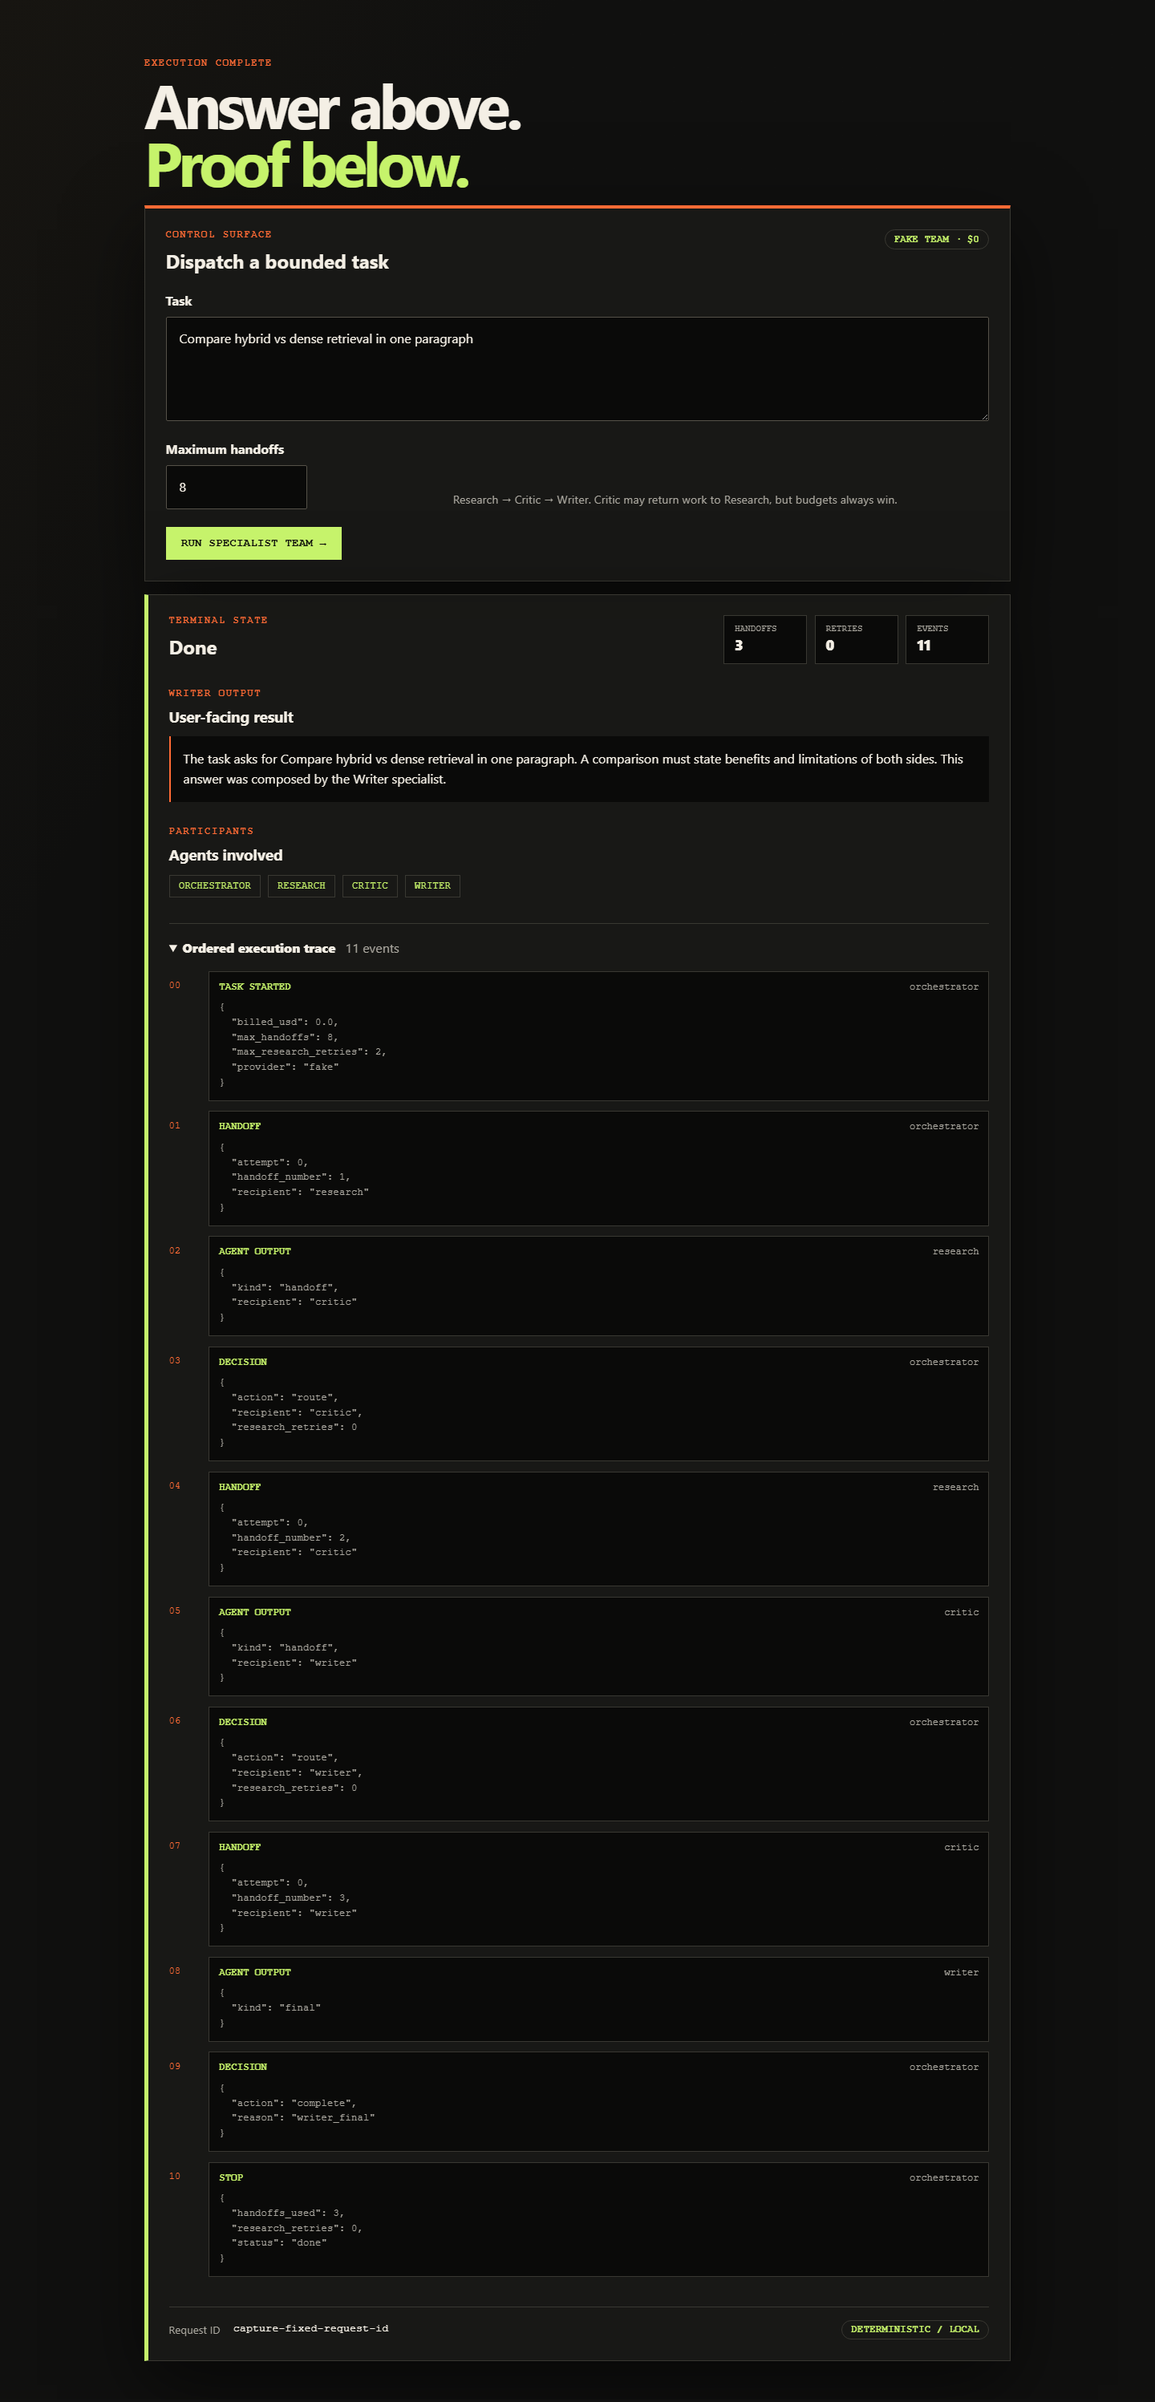
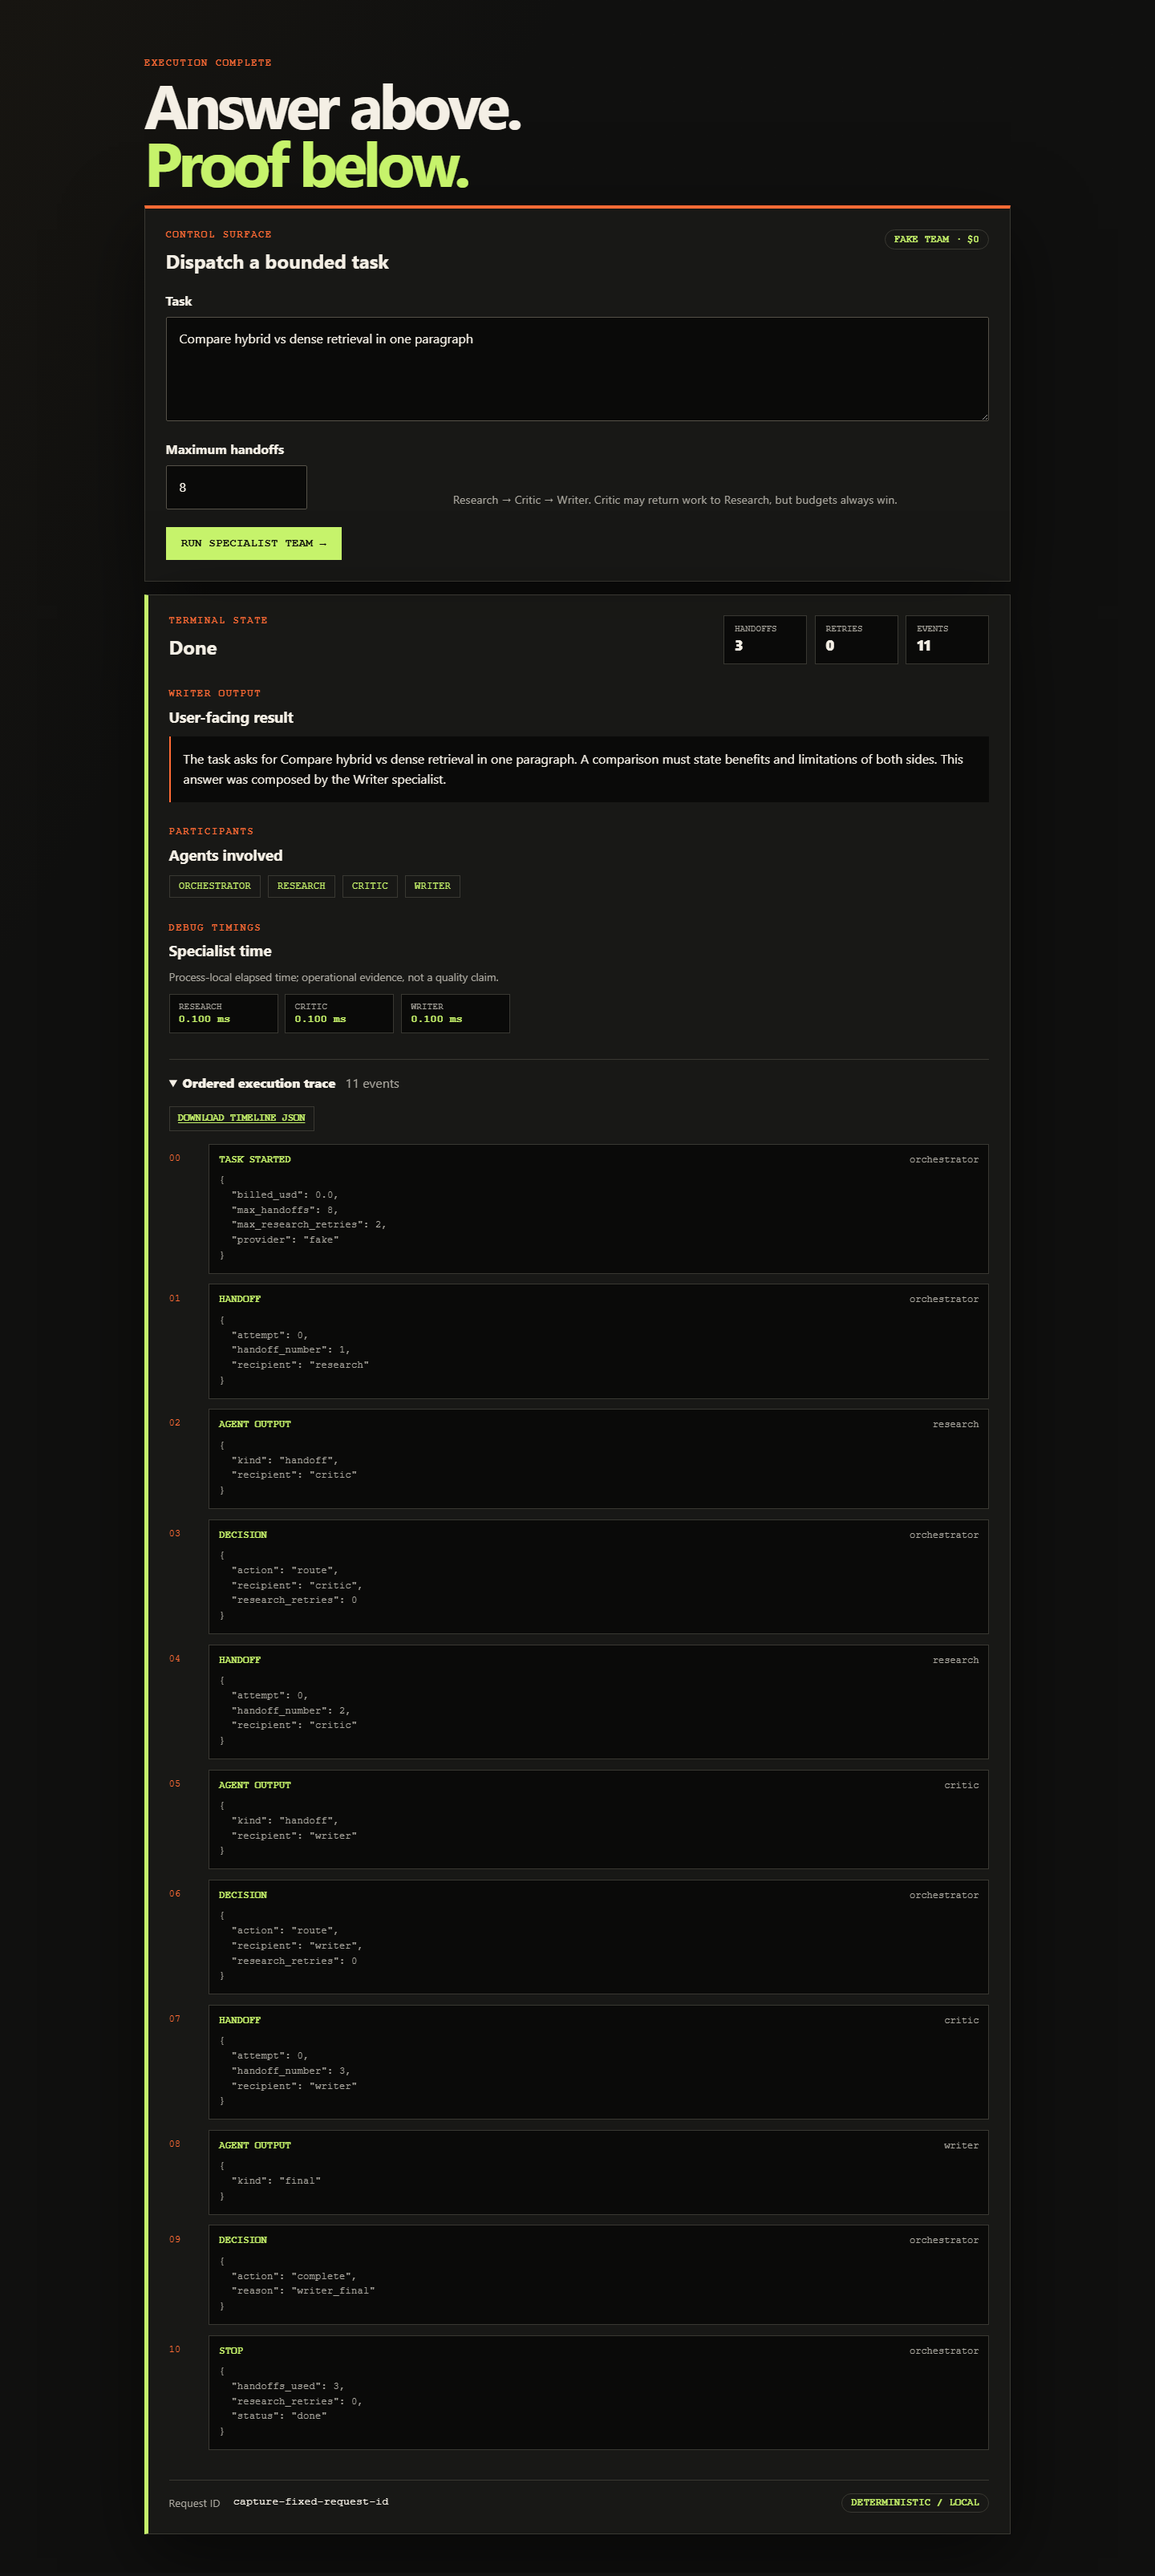
feat(ui): download timeline and show specialist timings

diff --git a/src/mao/static/app.css b/src/mao/static/app.css
@@ -41,9 +41,15 @@ button:hover { background: #ddff98; transform: translateY(-1px); }
 .writer-result { margin: .65rem 0 0; padding: 1rem; border-left: 2px solid var(--orange); background: var(--deep); white-space: pre-wrap; }
 .agent-list { display: flex; flex-wrap: wrap; gap: .55rem; margin: .7rem 0 0; padding: 0; list-style: none; }
 .agent-list li { padding: .38rem .7rem; border: 1px solid var(--line); color: var(--lime); font: .78rem ui-monospace, monospace; text-transform: uppercase; }
+.timing-note { margin: .45rem 0 .7rem; color: var(--muted); font-size: .85rem; }
+.timing-list { display: flex; flex-wrap: wrap; gap: .55rem; margin: 0; }
+.timing-list div { min-width: 8.5rem; padding: .55rem .7rem; border: 1px solid var(--line); background: var(--deep); }
+.timing-list dt { color: var(--muted); font: .7rem ui-monospace, monospace; text-transform: uppercase; }
+.timing-list dd { margin: .15rem 0 0; color: var(--lime); font: 800 .84rem ui-monospace, monospace; }
 .trace { margin-top: 2rem; padding-top: 1.1rem; border-top: 1px solid var(--line); }
 .trace summary { cursor: pointer; font-weight: 800; }
 .trace summary span { margin-left: .5rem; color: var(--muted); font-weight: 400; }
+.download-link { display: inline-block; padding: .45rem .65rem; border: 1px solid var(--line); font: 750 .75rem ui-monospace, monospace; text-transform: uppercase; }
 .trace ol { margin: 1rem 0 0; padding: 0; list-style: none; }
 .trace li { display: grid; grid-template-columns: 2.3rem 1fr; gap: .8rem; padding-bottom: .8rem; }
 .sequence { padding-top: .7rem; color: var(--orange); font: .75rem ui-monospace, monospace; }

diff --git a/src/mao/templates/result.html b/src/mao/templates/result.html
@@ -22,8 +22,16 @@
       <p class="section-label">Participants</p><h3 id="agents-heading">Agents involved</h3>
       <ul class="agent-list">{% for agent in result.agents_involved %}<li>{{ agent.value }}</li>{% endfor %}</ul>
     </section>
+    <section aria-labelledby="timings-heading">
+      <p class="section-label">Debug timings</p><h3 id="timings-heading">Specialist time</h3>
+      <p class="timing-note">Process-local elapsed time; operational evidence, not a quality claim.</p>
+      <dl class="timing-list">{% for agent, elapsed_ms in result.specialist_timings_ms.items() %}<div>
+        <dt>{{ agent.value }}</dt><dd class="timing-value">{{ "%.3f" | format(elapsed_ms) }} ms</dd>
+      </div>{% endfor %}</dl>
+    </section>
     <details class="trace" open>
       <summary>Ordered execution trace <span>{{ result.trace | length }} events</span></summary>
+      <p><a class="download-link" href="/ui/tasks/{{ request_id }}/timeline.json" download>Download timeline JSON</a></p>
       <ol>{% for entry in result.trace %}<li>
         <span class="sequence">{{ "%02d" | format(entry.sequence) }}</span>
         <div class="event-card"><div class="event-title"><h3>{{ entry.event | replace('_', ' ') }}</h3><span>{{ entry.actor.value }}</span></div><pre>{{ entry.payload | tojson(indent=2) }}</pre></div>

diff --git a/src/mao/ui.py b/src/mao/ui.py
@@ -3,17 +3,20 @@
 from __future__ import annotations
 
 import logging
+from collections import OrderedDict
 from http import HTTPStatus
 from pathlib import Path
+from threading import Lock
 from typing import Annotated, Final
 
 from fastapi import APIRouter, Form, Request
-from fastapi.responses import HTMLResponse, Response
+from fastapi.responses import HTMLResponse, JSONResponse, Response
 from fastapi.templating import Jinja2Templates
 from pydantic import ValidationError
 
 from mao.api import TaskRequest, TaskRunner
 from mao.middleware import request_id_of
+from mao.models import TraceEvent
 
 PACKAGE_DIRECTORY: Final = Path(__file__).resolve().parent
 TEMPLATE_DIRECTORY: Final = PACKAGE_DIRECTORY / "templates"
@@ -22,6 +25,29 @@ DEMO_TASK: Final = "Compare hybrid vs dense retrieval in one paragraph"
 
 LOGGER: Final = logging.getLogger(__name__)
 templates = Jinja2Templates(directory=TEMPLATE_DIRECTORY)
+
+
+class TimelineStore:
+    """Keep a bounded process-local set of downloadable UI traces."""
+
+    def __init__(self, *, max_entries: int = 128) -> None:
+        """Create a store that evicts the oldest completed run first."""
+        self._max_entries = max_entries
+        self._items: OrderedDict[str, tuple[TraceEvent, ...]] = OrderedDict()
+        self._lock = Lock()
+
+    def put(self, request_id: str, trace: tuple[TraceEvent, ...]) -> None:
+        """Save one immutable trace and enforce the entry bound."""
+        with self._lock:
+            self._items[request_id] = trace
+            self._items.move_to_end(request_id)
+            while len(self._items) > self._max_entries:
+                self._items.popitem(last=False)
+
+    def get(self, request_id: str) -> tuple[TraceEvent, ...] | None:
+        """Return one trace without extending its retention lifetime."""
+        with self._lock:
+            return self._items.get(request_id)
 
 
 def _context(request: Request, **extra: object) -> dict[str, object]:
@@ -36,6 +62,7 @@ def _context(request: Request, **extra: object) -> dict[str, object]:
 def build_ui_router(runner: TaskRunner) -> APIRouter:
     """Build UI routes over the same injected runner as the JSON API."""
     router = APIRouter(include_in_schema=False)
+    timelines = TimelineStore()
 
     @router.get("/", response_class=HTMLResponse)
     def task_console(request: Request) -> Response:
@@ -101,6 +128,7 @@ def build_ui_router(runner: TaskRunner) -> APIRouter:
                 status_code=int(HTTPStatus.INTERNAL_SERVER_ERROR),
             )
 
+        timelines.put(request_id, result.trace)
         return templates.TemplateResponse(
             request=request,
             name="result.html",
@@ -113,7 +141,23 @@ def build_ui_router(runner: TaskRunner) -> APIRouter:
             ),
         )
 
+    @router.get("/ui/tasks/{request_id}/timeline.json")
+    def download_timeline(request_id: str) -> Response:
+        """Download the exact JSON-safe trace retained for one UI run."""
+        trace = timelines.get(request_id)
+        if trace is None:
+            return JSONResponse(
+                status_code=int(HTTPStatus.NOT_FOUND),
+                content={"error": "timeline_not_found"},
+            )
+        return JSONResponse(
+            content=[event.model_dump(mode="json") for event in trace],
+            headers={
+                "Content-Disposition": f'attachment; filename="timeline-{request_id}.json"'
+            },
+        )
+
     return router
 
 
-__all__ = ["STATIC_DIRECTORY", "build_ui_router"]
+__all__ = ["STATIC_DIRECTORY", "TimelineStore", "build_ui_router"]

diff --git a/src/mao/orchestrator/graph.py b/src/mao/orchestrator/graph.py
@@ -2,7 +2,8 @@
 
 from __future__ import annotations
 
-from collections.abc import Iterable
+from collections.abc import Callable, Iterable
+from time import perf_counter_ns
 
 from pydantic import JsonValue
 
@@ -30,6 +31,7 @@ class Orchestrator:
         bus: InMemoryBus | None = None,
         policy: OrchestrationPolicy | None = None,
         research_agent: Agent | None = None,
+        clock_ns: Callable[[], int] = perf_counter_ns,
     ) -> None:
         """Build the default fake team or accept an injected test team."""
         if bus is not None and research_agent is not None:
@@ -43,6 +45,7 @@ class Orchestrator:
             else str(getattr(research_agent or FakeResearchAgent(), "provider", "custom"))
         )
         self._policy = policy or OrchestrationPolicy()
+        self._clock_ns = clock_ns
 
     def run(self, task: str, *, budget: TaskBudget | None = None) -> TaskResult:
         """Execute ``task`` until Writer finishes, a budget ends, or a specialist fails."""
@@ -57,6 +60,7 @@ class Orchestrator:
         handoffs = 0
         retries = 0
         trace: list[TraceEvent] = []
+        specialist_timings_ns: dict[AgentName, int] = {}
         self._record(
             trace,
             "task_started",
@@ -85,6 +89,7 @@ class Orchestrator:
                     retries,
                     limits,
                     trace,
+                    specialist_timings_ns,
                 )
             try:
                 self._policy.validate_handoff(current)
@@ -101,7 +106,14 @@ class Orchestrator:
                         "handoff_number": handoffs + 1,
                     },
                 )
-                output = self._bus.dispatch(current)
+                started_ns = self._clock_ns()
+                try:
+                    output = self._bus.dispatch(current)
+                finally:
+                    elapsed_ns = max(0, self._clock_ns() - started_ns)
+                    specialist_timings_ns[dispatched] = (
+                        specialist_timings_ns.get(dispatched, 0) + elapsed_ns
+                    )
                 handoffs += 1
                 if isinstance(output, FinalAnswer):
                     self._record(
@@ -125,6 +137,7 @@ class Orchestrator:
                         retries,
                         limits,
                         trace,
+                        specialist_timings_ns,
                     )
                 self._record(
                     trace,
@@ -197,6 +210,7 @@ class Orchestrator:
                     retries,
                     limits,
                     trace,
+                    specialist_timings_ns,
                 )
 
     @staticmethod
@@ -220,6 +234,7 @@ class Orchestrator:
         retries: int,
         budget: TaskBudget,
         trace: list[TraceEvent],
+        specialist_timings_ns: dict[AgentName, int],
     ) -> TaskResult:
         """Construct one terminal result with stable participant ordering."""
         Orchestrator._record(
@@ -240,6 +255,10 @@ class Orchestrator:
             research_retries=retries,
             budget=budget,
             trace=tuple(trace),
+            specialist_timings_ms={
+                agent: round(elapsed_ns / 1_000_000, 3)
+                for agent, elapsed_ns in specialist_timings_ns.items()
+            },
         )
 
 

diff --git a/tests/api/test_ui.py b/tests/api/test_ui.py
@@ -4,7 +4,9 @@ import httpx
 import pytest
 from fastapi.testclient import TestClient
 
-from mao.main import app
+from mao.api import TaskRequest, execute_task_request
+from mao.main import app, create_app
+from mao.models import TaskResult
 
 
 def test_home_is_an_accessible_task_console() -> None:
@@ -33,9 +35,38 @@ def test_submit_renders_status_request_id_and_ordered_trace_without_network(
     assert "Done" in response.text
     assert "Writer output" in response.text
     assert "Ordered execution trace" in response.text
+    assert "Specialist time" in response.text
+    assert "Download timeline JSON" in response.text
     assert "orchestrator" in response.text
     assert "writer" in response.text
     assert response.headers["x-request-id"] in response.text
+
+
+def test_result_timeline_download_matches_the_in_memory_trace() -> None:
+    captured: list[TaskResult] = []
+
+    def runner(request: TaskRequest) -> TaskResult:
+        result = execute_task_request(request)
+        captured.append(result)
+        return result
+
+    client = TestClient(create_app(runner=runner))
+    result_page = client.post(
+        "/ui/tasks",
+        data={"task": "Compare hybrid vs dense retrieval", "max_handoffs": "8"},
+    )
+    request_id = result_page.headers["x-request-id"]
+
+    download = client.get(f"/ui/tasks/{request_id}/timeline.json")
+
+    assert download.status_code == 200
+    assert download.headers["content-disposition"].startswith("attachment;")
+    assert download.json() == [
+        event.model_dump(mode="json") for event in captured[0].trace
+    ]
+    assert [event["event"] for event in download.json()] == [
+        event.event for event in captured[0].trace
+    ]
 
 
 def test_budget_exhausted_is_rendered_as_a_first_class_result() -> None:

diff --git a/tests/test_orchestrator.py b/tests/test_orchestrator.py
@@ -54,6 +54,21 @@ def test_happy_path_finishes_only_after_writer() -> None:
     assert result.result.endswith("composed by the Writer specialist.")
 
 
+def test_specialist_timings_use_an_injected_monotonic_clock_and_stay_internal() -> None:
+    ticks = iter([0, 1_500_000, 10_000_000, 12_000_000, 20_000_000, 23_250_000])
+
+    result = Orchestrator(clock_ns=ticks.__next__).run(
+        "Compare hybrid vs dense retrieval"
+    )
+
+    assert result.specialist_timings_ms == {
+        AgentName.RESEARCH: 1.5,
+        AgentName.CRITIC: 2.0,
+        AgentName.WRITER: 3.25,
+    }
+    assert "specialist_timings_ms" not in result.model_dump()
+
+
 def test_critic_rejection_causes_one_bounded_research_retry() -> None:
     result = run_task("Audit retrieval risk")
 

diff --git a/scripts/capture_ui.py b/scripts/capture_ui.py
@@ -99,10 +99,13 @@ def _submit(page: Page, base_url: str, spec: CaptureSpec) -> None:
 
 
 def _stabilize(page: Page) -> None:
-    """Remove the only dynamic value and disable rendering motion."""
+    """Normalize dynamic diagnostics and disable rendering motion."""
     request_id = page.locator(".diagnostics code")
     request_id.wait_for(state="visible")
     request_id.evaluate("(node, value) => { node.textContent = value; }", FIXED_REQUEST_ID)
+    timings = page.locator(".timing-value")
+    for index in range(timings.count()):
+        timings.nth(index).evaluate("node => { node.textContent = '0.100 ms'; }")
     page.add_style_tag(
         content=(
             "* { animation: none !important; transition: none !important; "

diff --git a/src/mao/models/task.py b/src/mao/models/task.py
@@ -30,6 +30,11 @@ class TaskResult(BaseModel):
     research_retries: int = Field(ge=0, le=2)
     budget: TaskBudget
     trace: tuple[TraceEvent, ...]
+    specialist_timings_ms: dict[AgentName, float] = Field(
+        default_factory=dict,
+        exclude=True,
+        repr=False,
+    )
 
     @model_validator(mode="after")
     def validate_accounting(self) -> TaskResult:
